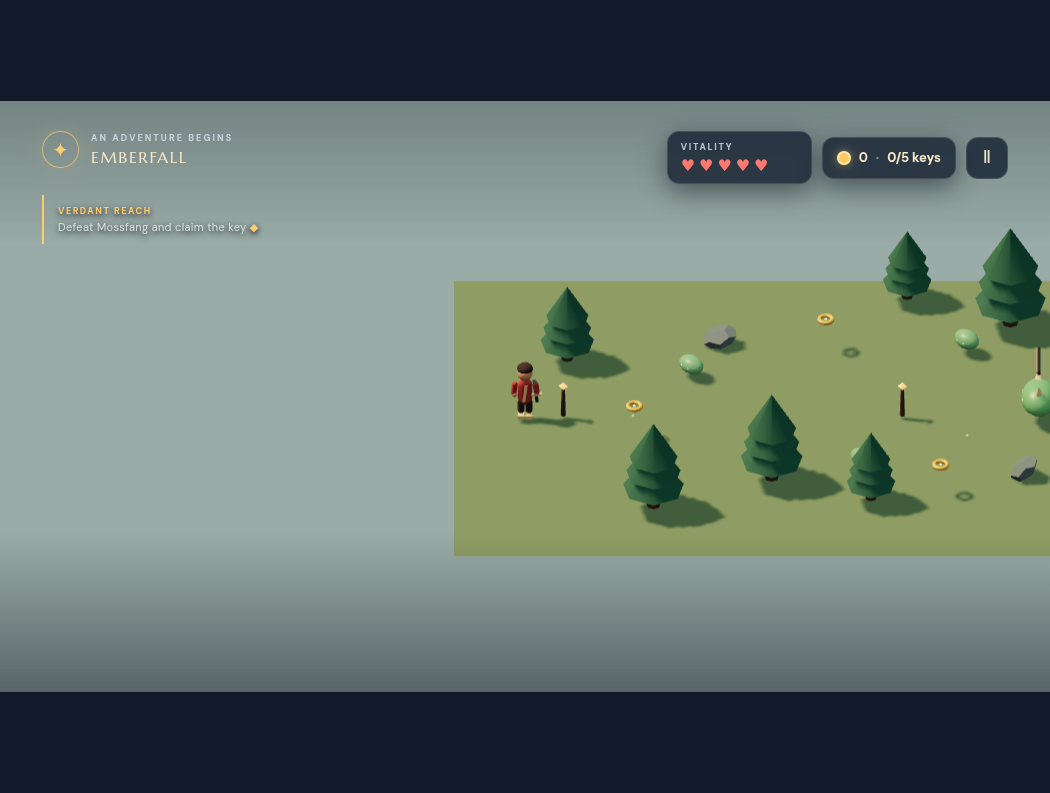
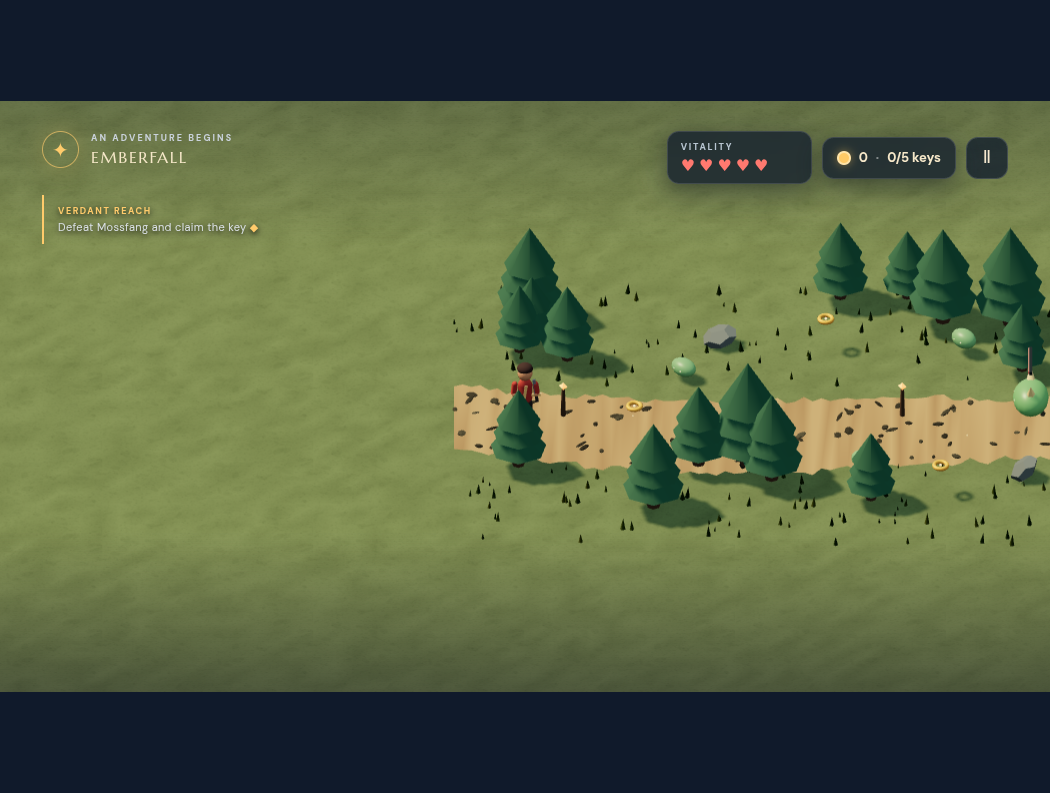
Publish static build for issue #1
Run: 42341175534
Attempt: 1
Generation: 23
Source: 4a477305924efd8e27554ca7069df0ec20320c4f

diff --git a/game.js b/game.js
@@ -113,19 +113,154 @@ import * as THREE from 'three';
   }
 
   function buildEnvironment() {
-    const floorGeo = new THREE.PlaneGeometry(REGION / SCALE, MAP_H / SCALE);
-    for (let r = 0; r < REGIONS.length; r++) {
-      const center = worldAt(r * REGION + REGION / 2, MAP_H / 2, -0.12);
-      const floor = addMesh(worldGroup, floorGeo, mat(REGIONS[r].ground), center, { rotation: [-Math.PI / 2, 0, Math.PI / 4], castShadow: false });
-      floor.receiveShadow = true;
+    const marginX = 900, marginY = 600;
+    const groundWidth = (WORLD + marginX * 2) / SCALE;
+    const groundHeight = (MAP_H + marginY * 2) / SCALE;
+    const groundGeo = new THREE.PlaneGeometry(groundWidth, groundHeight, 300, 96);
+    const positions = groundGeo.attributes.position;
+    const colors = new Float32Array(positions.count * 3);
+    const biomeColors = REGIONS.map((region) => new THREE.Color(region.ground));
+    for (let i = 0; i < positions.count; i++) {
+      const x = WORLD / 2 + positions.getX(i) * SCALE;
+      const boundary = Math.round(x / REGION) * REGION;
+      const left = Math.max(0, Math.min(REGIONS.length - 1, Math.floor((boundary - 1) / REGION)));
+      const right = Math.max(0, Math.min(REGIONS.length - 1, left + 1));
+      let color = biomeColors[regionAt(Math.max(0, Math.min(WORLD - 1, x)))].clone();
+      if (boundary > 0 && boundary < WORLD && Math.abs(x - boundary) < 110) {
+        const t = THREE.MathUtils.smoothstep(x, boundary - 110, boundary + 110);
+        color = biomeColors[left].clone().lerp(biomeColors[right], t);
+      }
+      const variation = 0.88 + random01(i * 19 + 3) * 0.2;
+      color.multiplyScalar(variation);
+      colors[i * 3] = color.r;
+      colors[i * 3 + 1] = color.g;
+      colors[i * 3 + 2] = color.b;
     }
+    groundGeo.setAttribute('color', new THREE.BufferAttribute(colors, 3));
+    const groundMaterial = new THREE.MeshStandardMaterial({ map: createGroundTexture(), vertexColors: true, roughness: 1 });
+    const ground = new THREE.Mesh(groundGeo, groundMaterial);
+    ground.position.copy(worldAt(WORLD / 2, MAP_H / 2, -0.12));
+    ground.rotation.set(-Math.PI / 2, 0, Math.PI / 4);
+    ground.receiveShadow = true;
+    ground.frustumCulled = false;
+    worldGroup.add(ground);
+    buildTrail();
     buildTreesAndRocks();
+    buildGroundCover();
     buildDecorativeLights();
+  }
+
+  function createGroundTexture() {
+    const canvas = document.createElement('canvas');
+    canvas.width = canvas.height = 512;
+    const context = canvas.getContext('2d');
+    context.fillStyle = '#f2f0e6';
+    context.fillRect(0, 0, 512, 512);
+    for (let i = 0; i < 18000; i++) {
+      const shade = 110 + Math.floor(random01(i + 318) * 120);
+      const alpha = 0.025 + random01(i + 619) * 0.09;
+      const size = 1 + random01(i + 817) * 3;
+      context.fillStyle = `rgba(${shade},${shade},${shade},${alpha})`;
+      context.fillRect(random01(i + 101) * 512, random01(i + 203) * 512, size, size);
+    }
+    for (let i = 0; i < 140; i++) {
+      const shade = 100 + Math.floor(random01(i + 911) * 110);
+      context.fillStyle = `rgba(${shade},${shade},${shade},0.055)`;
+      context.beginPath();
+      context.ellipse(random01(i + 301) * 512, random01(i + 401) * 512, 4 + random01(i + 501) * 17, 3 + random01(i + 601) * 12, random01(i + 701) * Math.PI, 0, Math.PI * 2);
+      context.fill();
+    }
+    const texture = new THREE.CanvasTexture(canvas);
+    texture.colorSpace = THREE.SRGBColorSpace;
+    texture.wrapS = texture.wrapT = THREE.RepeatWrapping;
+    texture.repeat.set(28, 12);
+    texture.anisotropy = Math.min(8, renderer.capabilities.getMaxAnisotropy());
+    return texture;
+  }
+
+  function trailCenter(x) {
+    return MAP_H / 2 + Math.sin(x / 275) * 32 + Math.sin(x / 107) * 11;
+  }
+
+  function buildTrail() {
+    const segments = Math.ceil(WORLD / 8);
+    const vertices = new Float32Array((segments + 1) * 2 * 3);
+    const colors = new Float32Array((segments + 1) * 2 * 3);
+    const indices = [];
+    const edgeColor = new THREE.Color(0x806344), centerColor = new THREE.Color(0xb19361);
+    for (let i = 0; i <= segments; i++) {
+      const x = WORLD * i / segments;
+      const center = trailCenter(x);
+      const width = 102 + Math.sin(x / 145) * 13 + (random01(i + 153) - 0.5) * 10;
+      for (let side = 0; side < 2; side++) {
+        const edge = side === 0 ? -1 : 1;
+        const irregular = (random01(i * 2 + side + 440) - 0.5) * 10;
+        const y = center + edge * (width / 2 + irregular);
+        const p = worldAt(x, y, -0.045);
+        const index = (i * 2 + side) * 3;
+        vertices[index] = p.x; vertices[index + 1] = p.y; vertices[index + 2] = p.z;
+        const color = edgeColor.clone().lerp(centerColor, 0.28 + random01(i * 5 + side + 67) * 0.54);
+        colors[index] = color.r; colors[index + 1] = color.g; colors[index + 2] = color.b;
+      }
+      if (i < segments) {
+        const a = i * 2;
+        indices.push(a, a + 1, a + 2, a + 1, a + 3, a + 2);
+      }
+    }
+    const geometry = new THREE.BufferGeometry();
+    geometry.setAttribute('position', new THREE.BufferAttribute(vertices, 3));
+    geometry.setAttribute('color', new THREE.BufferAttribute(colors, 3));
+    geometry.setIndex(indices);
+    geometry.computeVertexNormals();
+    const trail = new THREE.Mesh(geometry, new THREE.MeshStandardMaterial({ color: 0xffffff, vertexColors: true, roughness: 1, side: THREE.DoubleSide }));
+    trail.frustumCulled = false;
+    worldGroup.add(trail);
+
+    const stones = new THREE.InstancedMesh(shared.rock, mats.rock, 520);
+    for (let i = 0; i < 520; i++) {
+      const x = random01(i + 128) * WORLD;
+      const width = 102 + Math.sin(x / 145) * 13;
+      const y = trailCenter(x) + (random01(i + 228) - 0.5) * width * 0.86;
+      temp.position.copy(worldAt(x, y, -0.005));
+      temp.rotation.set(random01(i + 328) * 0.18, random01(i + 428) * Math.PI, random01(i + 528) * 0.18);
+      temp.scale.set(0.12 + random01(i + 628) * 0.28, 0.025 + random01(i + 728) * 0.04, 0.08 + random01(i + 828) * 0.2);
+      temp.updateMatrix();
+      stones.setMatrixAt(i, temp.matrix);
+      stones.setColorAt(i, new THREE.Color([0x8e816b, 0xb0a184, 0x766c5b][i % 3]).multiplyScalar(0.8 + random01(i + 928) * 0.4));
+    }
+    stones.instanceMatrix.needsUpdate = true;
+    if (stones.instanceColor) stones.instanceColor.needsUpdate = true;
+    stones.castShadow = false;
+    stones.receiveShadow = true;
+    worldGroup.add(stones);
+  }
+
+  function buildGroundCover() {
+    const grassGeo = new THREE.ConeGeometry(0.085, 0.38, 4);
+    const grass = new THREE.InstancedMesh(grassGeo, mat(0x72804b), 1100);
+    for (let i = 0; i < 1100; i++) {
+      const x = random01(i + 2031) * WORLD;
+      let y = 18 + random01(i + 2131) * (MAP_H - 36);
+      if (Math.abs(y - trailCenter(x)) < 78) y += y < MAP_H / 2 ? -75 : 75;
+      y = Math.max(10, Math.min(MAP_H - 10, y));
+      temp.position.copy(worldAt(x, y, 0.025));
+      temp.rotation.set(0, random01(i + 2231) * Math.PI, (random01(i + 2331) - 0.5) * 0.28);
+      const scale = 0.35 + random01(i + 2431) * 0.9;
+      temp.scale.set(scale, scale, scale);
+      temp.updateMatrix();
+      grass.setMatrixAt(i, temp.matrix);
+      grass.setColorAt(i, new THREE.Color([0x647849, 0x899052, 0x9a965b, 0x536d43][i % 4]).multiplyScalar(0.8 + random01(i + 2531) * 0.35));
+    }
+    grass.instanceMatrix.needsUpdate = true;
+    if (grass.instanceColor) grass.instanceColor.needsUpdate = true;
+    grass.castShadow = false;
+    grass.receiveShadow = true;
+    worldGroup.add(grass);
   }
 
   function buildTreesAndRocks() {
     for (let regionIndex = 0; regionIndex < REGIONS.length; regionIndex++) {
-      for (let i = 0; i < 7; i++) {
+      for (let i = 0; i < 16; i++) {
         const seed = regionIndex * 17 + i;
         const x = regionIndex * REGION + 34 + random01(seed + 20) * (REGION - 68);
         const edge = random01(seed + 21) < 0.5 ? 0 : 1;
